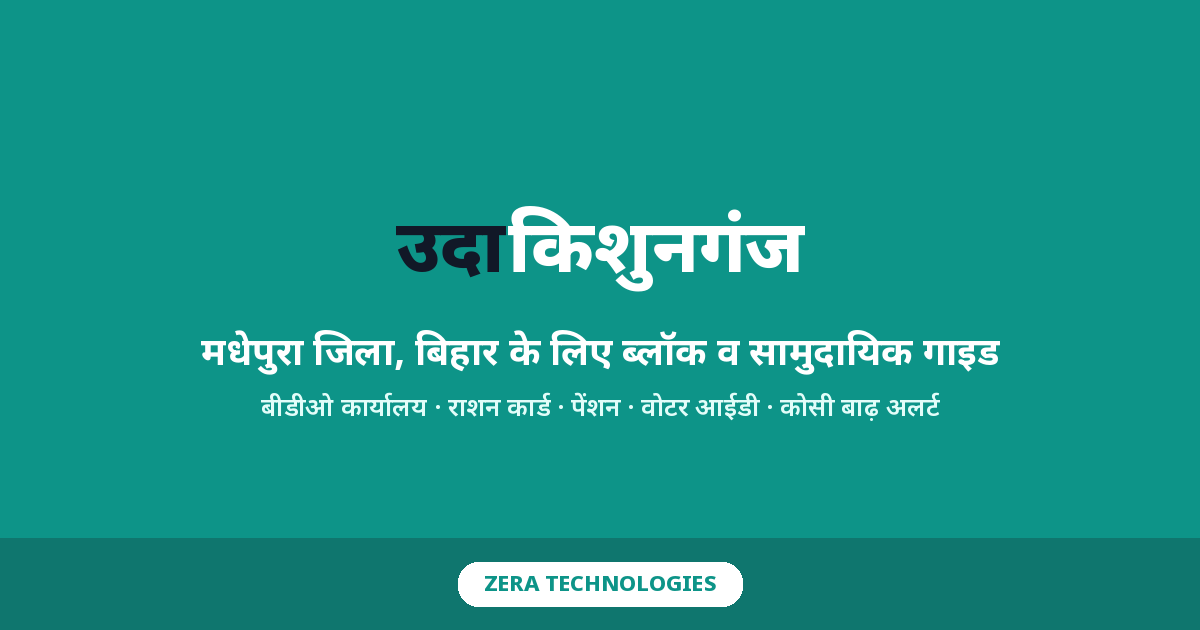
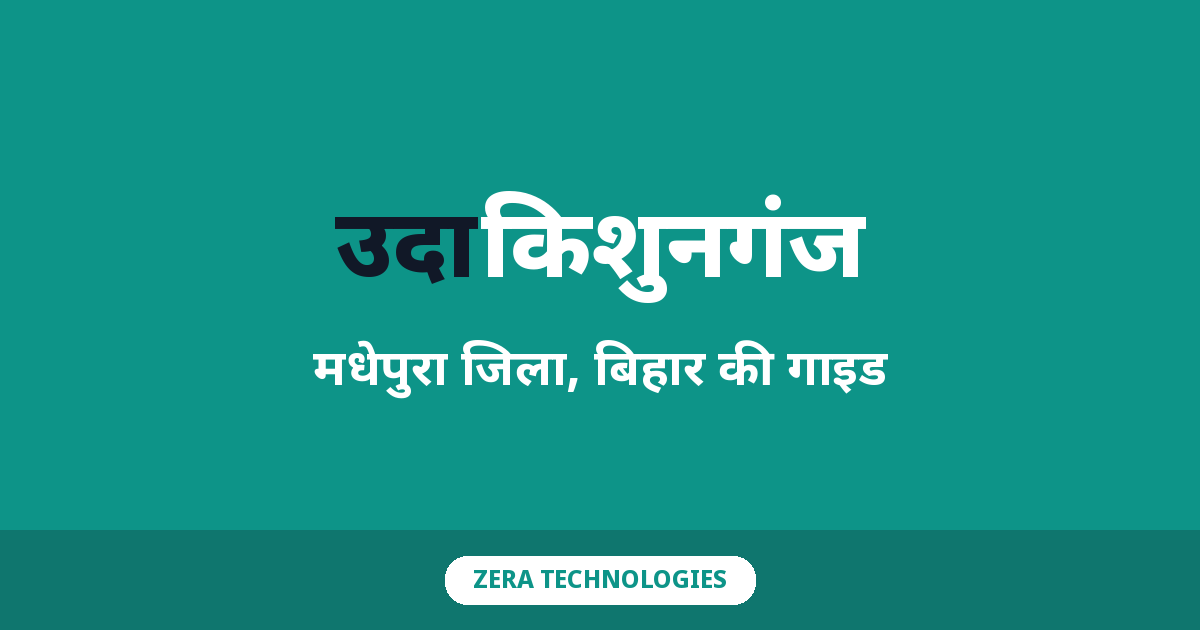
Fix mobile nav wrapping and simplify OG image for small-screen WhatsApp previews

Changed region(s): [[0.0, 0.8143, 1.0, 0.9651], [0.1542, 0.5127, 0.8325, 0.6635], [0.2775, 0.3016, 0.74, 0.4825]]

diff --git a/css/style.css b/css/style.css
@@ -135,11 +135,22 @@ footer.site nav a { margin: 0 10px; color: var(--muted); }
 @media (max-width: 640px) {
   .wrap { padding: 0 16px; }
 
-  header.site { padding: 12px 0; }
-  header.site .wrap { justify-content: flex-start; }
-  .logo { font-size: 19px; margin-right: auto; }
-  nav.site { width: 100%; gap: 2px 14px; }
-  nav.site a { margin-left: 0; font-size: 14px; padding: 6px 0; }
+  header.site { padding: 10px 0; }
+  header.site .wrap { flex-wrap: nowrap; }
+  .logo { font-size: 16px; flex: 0 0 auto; white-space: nowrap; margin-right: 10px; }
+  nav.site {
+    flex: 1 1 auto;
+    display: flex;
+    flex-wrap: nowrap;
+    justify-content: flex-end;
+    overflow-x: auto;
+    -webkit-overflow-scrolling: touch;
+    gap: 14px;
+    scrollbar-width: none;
+    -ms-overflow-style: none;
+  }
+  nav.site::-webkit-scrollbar { display: none; }
+  nav.site a { margin-left: 0; font-size: 12.5px; padding: 6px 0 8px; white-space: nowrap; flex: 0 0 auto; }
 
   main { padding: 28px 0 44px; }
 
@@ -170,5 +181,7 @@ footer.site nav a { margin: 0 10px; color: var(--muted); }
 
 @media (max-width: 380px) {
   h1 { font-size: 21px; }
-  .logo { font-size: 17px; }
+  .logo { font-size: 14px; margin-right: 6px; }
+  nav.site { gap: 10px; }
+  nav.site a { font-size: 11.5px; }
 }
